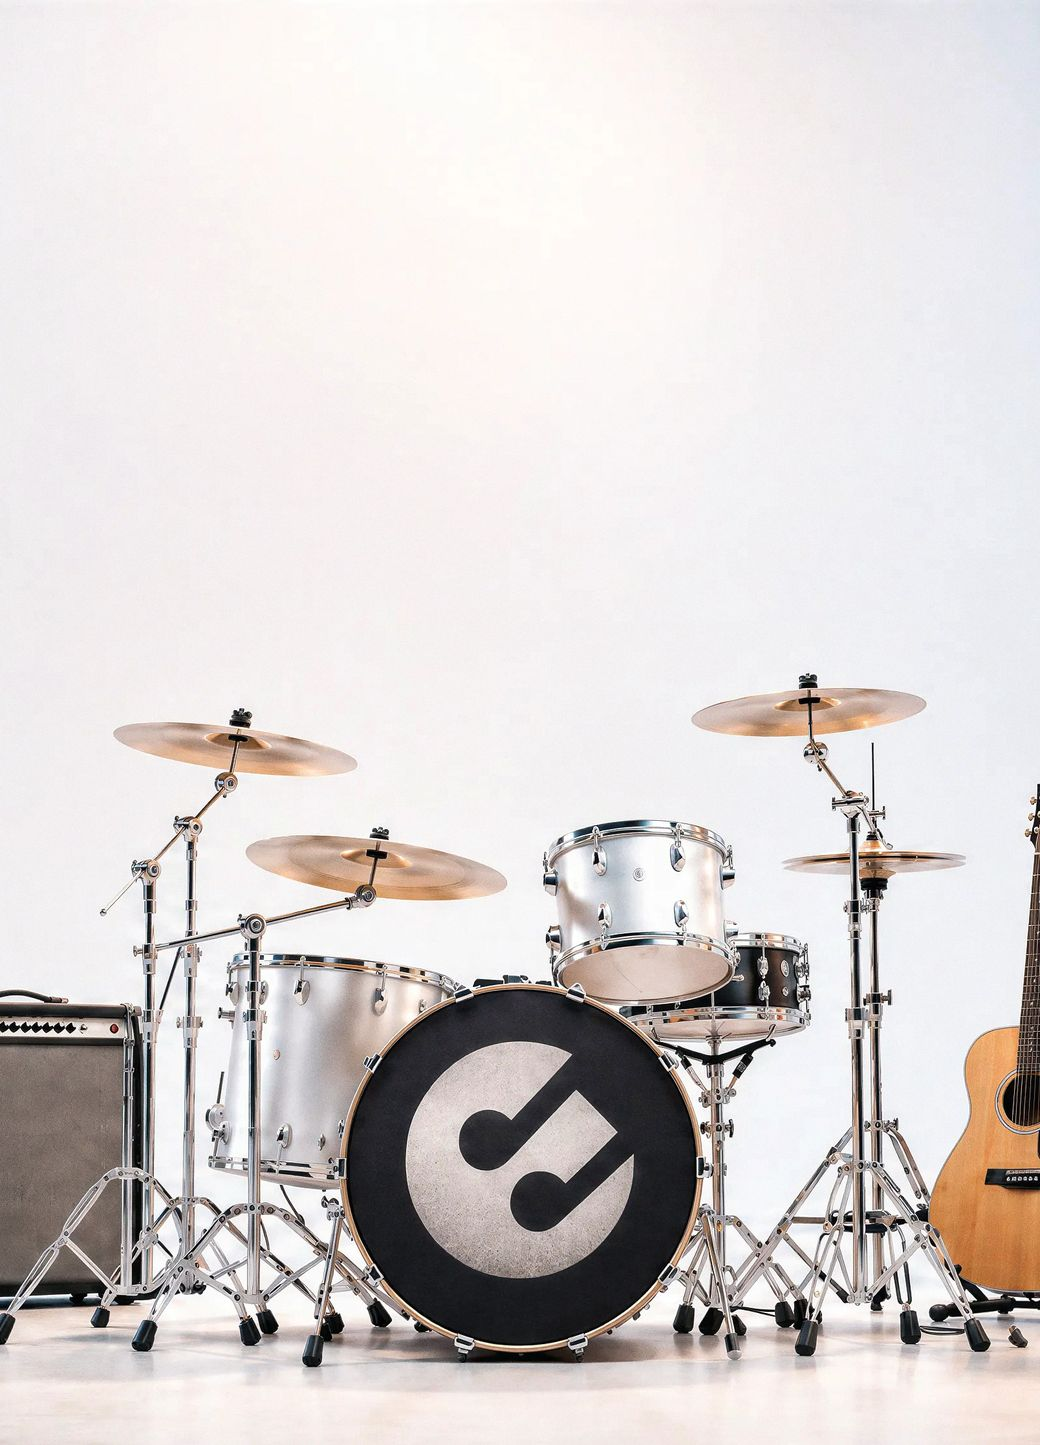
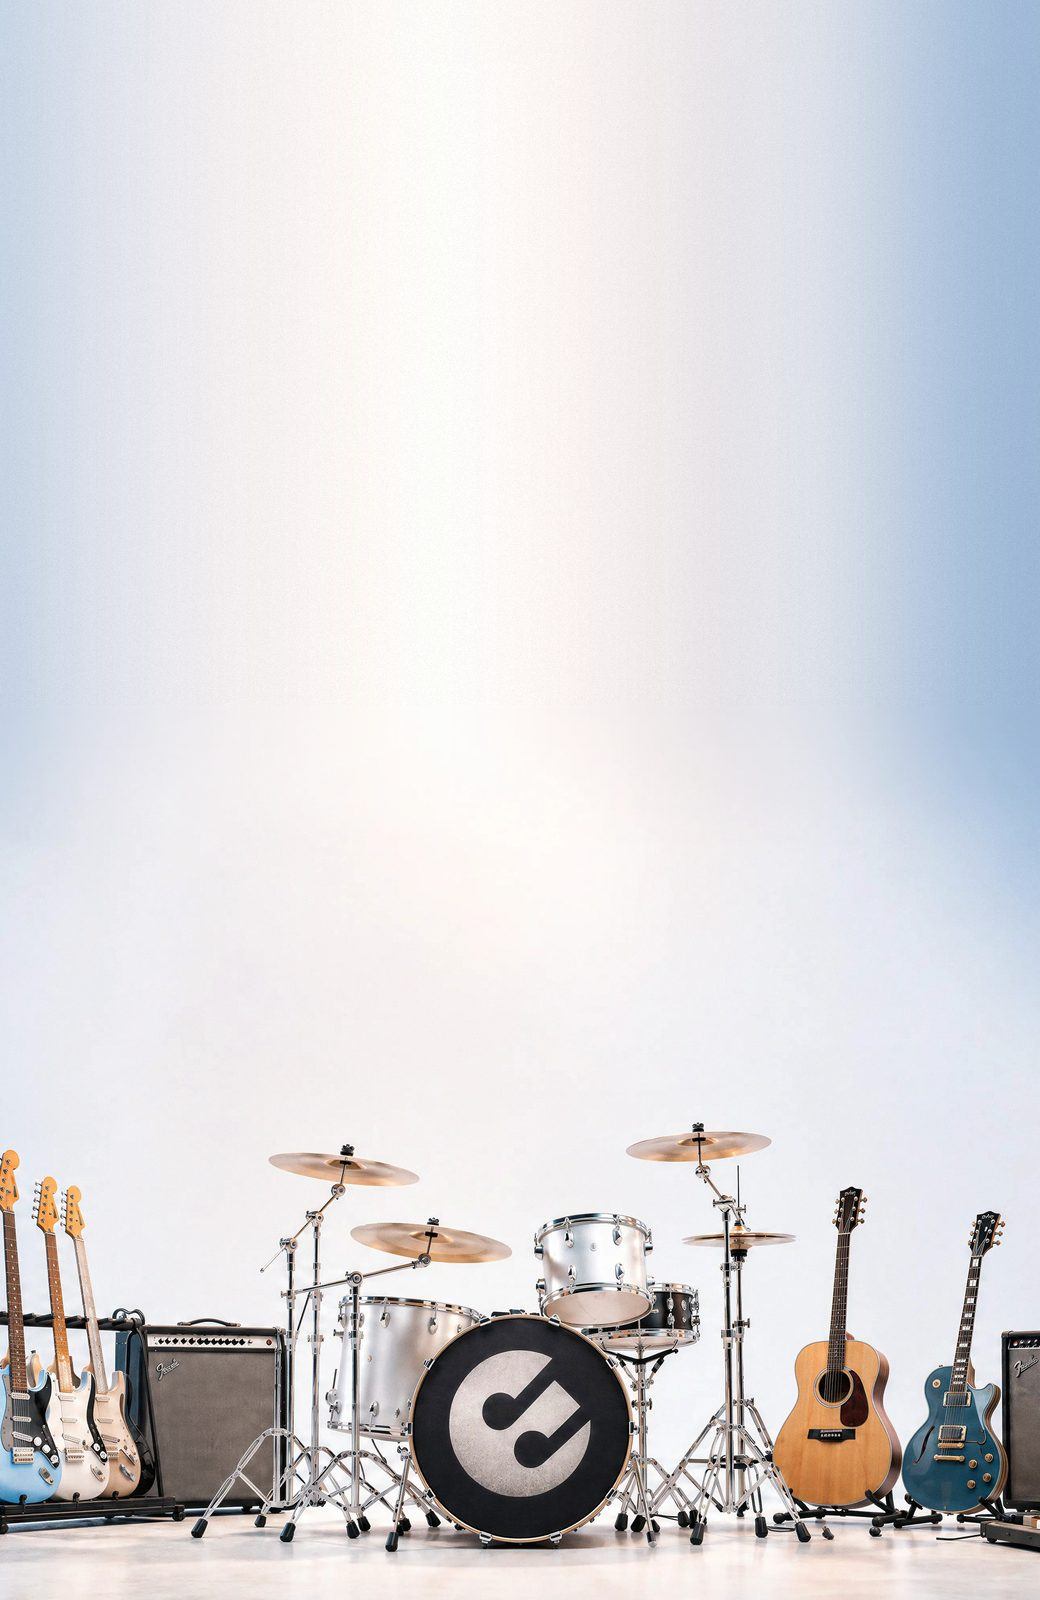
Celular: hero con el fondo extendido y portadas separadas
Solo telefonos; tablet y computadora no cambian.

- Hero: en lugar del recorte con mucho zoom, hero-movil.jpg es ahora la
  foto a escala normal (bateria, guitarras y amplis completos) con el
  fondo celeste y blanco del estudio extendido hacia arriba. Cada columna
  continua el color del borde superior de la foto, se suaviza el
  contraste hacia arriba, lleva un grano leve y la union se funde en
  150px: no hay corte visible. El texto queda sobre el cielo de la propia
  imagen y los instrumentos anclados abajo; en pantallas mas anchas lo
  que se recorta es cielo.
- Corredor: 7 tarjetas por riel en vez de 13, asi quedan separadas y se
  distingue cada portada. Los rieles muestran portadas distintas (pares
  e impares) para que igual aparezcan las 13.
- Cache busting a ?v=20260911-9.

diff --git a/index.html b/index.html
@@ -13,14 +13,14 @@
 <meta property="og:title" content="Idearum — Pistas profesionales para cantantes">
 <meta name="twitter:card" content="summary_large_image">
 
-<link rel="icon" type="image/png" sizes="32x32" href="assets/img/favicon-32.png?v=20260911-8">
-<link rel="icon" type="image/png" sizes="32x32" href="assets/img/favicon-32-dark.png?v=20260911-8" media="(prefers-color-scheme: dark)">
-<link rel="apple-touch-icon" sizes="180x180" href="assets/img/apple-touch-icon.png?v=20260911-8">
+<link rel="icon" type="image/png" sizes="32x32" href="assets/img/favicon-32.png?v=20260911-9">
+<link rel="icon" type="image/png" sizes="32x32" href="assets/img/favicon-32-dark.png?v=20260911-9" media="(prefers-color-scheme: dark)">
+<link rel="apple-touch-icon" sizes="180x180" href="assets/img/apple-touch-icon.png?v=20260911-9">
 <meta property="og:image" content="assets/img/og.jpg">
 <meta property="og:image:width" content="1200">
 <meta property="og:image:height" content="630">
 
-<link rel="stylesheet" href="css/styles.css?v=20260911-8">
+<link rel="stylesheet" href="css/styles.css?v=20260911-9">
 
 <script>
   /* Quita la red de seguridad "sin JS". Si app.js no llega a cargarse en 5
@@ -59,15 +59,15 @@
         (así la web no muestra fichas vacías). Aparece sola con el primero.
         Cambiá también el título, el autor y el tipo de cada tarjeta.
      7. FOTO DEL HERO. Tres archivos en assets/img/: hero-1800.jpg
-        (escritorio), hero-900.jpg (tablet) y hero-movil.jpg (celular, recorte
-        vertical centrado en la batería). Si la cambiás, respetá que el tercio
+        (escritorio), hero-900.jpg (tablet) y hero-movil.jpg (celular: la foto con el
+        fondo del estudio extendido hacia arriba, para el texto). Si la cambiás, respetá que el tercio
         de arriba quede limpio: ahí va el texto. Y cambiá el ?v= en el CSS.
      ========================================================================== -->
 
 <header class="nav">
   <div class="nav__in">
     <a class="nav__logo" href="index.html">
-      <img src="assets/img/logo.png?v=20260911-8" alt="" width="20" height="20">
+      <img src="assets/img/logo.png?v=20260911-9" alt="" width="20" height="20">
       <span>Idearum</span>
     </a>
 
@@ -109,7 +109,7 @@
              href="https://wa.me/5492656442608"
              data-wsp="Hola Idearum, quiero pedir un tema."
              target="_blank" rel="noopener">
-            <img class="wa" src="assets/img/wsp-blanco.png?v=20260911-8" alt="" width="17" height="17">
+            <img class="wa" src="assets/img/wsp-blanco.png?v=20260911-9" alt="" width="17" height="17">
             <span>Pedí tu tema</span>
           </a>
         </div>
@@ -357,14 +357,14 @@
       </div>
     </div>
     <div class="footer__pie">
-      <p class="footer__marca"><img src="assets/img/logo.png?v=20260911-8" alt="" width="16" height="16"><span>Copyright &copy; <span data-anio>2026</span> Idearum. Todos los derechos reservados.</span></p>
+      <p class="footer__marca"><img src="assets/img/logo.png?v=20260911-9" alt="" width="16" height="16"><span>Copyright &copy; <span data-anio>2026</span> Idearum. Todos los derechos reservados.</span></p>
       <p>Producción musical.</p>
     </div>
   </div>
 </footer>
 
-<script src="data/pistas.js?v=20260911-8" defer></script>
-<script src="js/app.js?v=20260911-8" defer></script>
+<script src="data/pistas.js?v=20260911-9" defer></script>
+<script src="js/app.js?v=20260911-9" defer></script>
 
 </body>
 </html>

diff --git a/catalogo.html b/catalogo.html
@@ -13,14 +13,14 @@
 <meta property="og:title" content="Idearum — Pistas profesionales para cantantes">
 <meta name="twitter:card" content="summary_large_image">
 
-<link rel="icon" type="image/png" sizes="32x32" href="assets/img/favicon-32.png?v=20260911-8">
-<link rel="icon" type="image/png" sizes="32x32" href="assets/img/favicon-32-dark.png?v=20260911-8" media="(prefers-color-scheme: dark)">
-<link rel="apple-touch-icon" sizes="180x180" href="assets/img/apple-touch-icon.png?v=20260911-8">
+<link rel="icon" type="image/png" sizes="32x32" href="assets/img/favicon-32.png?v=20260911-9">
+<link rel="icon" type="image/png" sizes="32x32" href="assets/img/favicon-32-dark.png?v=20260911-9" media="(prefers-color-scheme: dark)">
+<link rel="apple-touch-icon" sizes="180x180" href="assets/img/apple-touch-icon.png?v=20260911-9">
 <meta property="og:image" content="assets/img/og.jpg">
 <meta property="og:image:width" content="1200">
 <meta property="og:image:height" content="630">
 
-<link rel="stylesheet" href="css/styles.css?v=20260911-8">
+<link rel="stylesheet" href="css/styles.css?v=20260911-9">
 
 <script>
   document.documentElement.classList.remove("no-js");
@@ -50,7 +50,7 @@
 <header class="nav">
   <div class="nav__in">
     <a class="nav__logo" href="index.html">
-      <img src="assets/img/logo.png?v=20260911-8" alt="" width="20" height="20">
+      <img src="assets/img/logo.png?v=20260911-9" alt="" width="20" height="20">
       <span>Idearum</span>
     </a>
 
@@ -259,15 +259,15 @@
       </div>
     </div>
     <div class="footer__pie">
-      <p class="footer__marca"><img src="assets/img/logo.png?v=20260911-8" alt="" width="16" height="16"><span>Copyright &copy; <span data-anio>2026</span> Idearum. Todos los derechos reservados.</span></p>
+      <p class="footer__marca"><img src="assets/img/logo.png?v=20260911-9" alt="" width="16" height="16"><span>Copyright &copy; <span data-anio>2026</span> Idearum. Todos los derechos reservados.</span></p>
       <p>Producción musical.</p>
     </div>
   </div>
 </footer>
 
-<script src="data/pistas.js?v=20260911-8" defer></script>
-<script src="js/app.js?v=20260911-8" defer></script>
-<script src="js/catalogo.js?v=20260911-8" defer></script>
+<script src="data/pistas.js?v=20260911-9" defer></script>
+<script src="js/app.js?v=20260911-9" defer></script>
+<script src="js/catalogo.js?v=20260911-9" defer></script>
 
 </body>
 </html>

diff --git a/js/app.js b/js/app.js
@@ -299,6 +299,10 @@
   VIA_MOVIL.fan = 2.0;
 
   var TARJETAS = 13;    // tarjetas por riel a la vez (una por portada)
+  // Celular: menos tarjetas por riel para que queden separadas y cada tapa se
+  // vea entera (con 13 se superponian tanto que no se distinguia ninguna).
+  // Los dos rieles muestran portadas distintas, asi igual aparecen las 13.
+  var TARJETAS_MOVIL = 7;
   var VELOCIDAD = 18;   // segundos que tarda una tarjeta en cruzar el corredor
   var EJE = 55;         // altura del eje del corredor, en % del alto
 
@@ -331,7 +335,9 @@
     if (!window.CSS || !CSS.supports || !CSS.supports("container-type", "inline-size")) return;
     if (!PORTADAS.length) return;
 
-    var via = caja.clientWidth < 700 ? VIA_MOVIL : VIA;
+    var movil = caja.clientWidth < 700;
+    var via = movil ? VIA_MOVIL : VIA;
+    var n = movil ? TARJETAS_MOVIL : TARJETAS;
     var hoja = document.createElement("style");
     hoja.textContent = keyframes(1, "corr-der", via) + keyframes(-1, "corr-izq", via);
     document.head.appendChild(hoja);
@@ -340,7 +346,7 @@
     var rieles = ["corr-der", "corr-izq"];
 
     for (var r = 0; r < rieles.length; r++) {
-      for (var i = 0; i < TARJETAS; i++) {
+      for (var i = 0; i < n; i++) {
         var card = document.createElement("div");
         card.className = "corredor__card";
         card.style.left = "50%";
@@ -353,10 +359,13 @@
         card.style.animation = rieles[r] + " " + VELOCIDAD + "s linear infinite";
         // El retardo negativo suelta cada tarjeta a mitad de vuelo, asi el
         // corredor ya esta lleno en el primer cuadro.
-        card.style.animationDelay = (-(i * VELOCIDAD) / TARJETAS) + "s";
+        card.style.animationDelay = (-(i * VELOCIDAD) / n) + "s";
 
         var img = document.createElement("img");
-        img.src = PORTADAS[i % PORTADAS.length] + "?v=" + V_PORTADAS;
+        // Escritorio: los dos rieles en espejo. Celular: pares a la derecha,
+        // impares a la izquierda, para que entren las 13 con 7 por lado.
+        var cual = movil ? (i * 2 + r) % PORTADAS.length : i % PORTADAS.length;
+        img.src = PORTADAS[cual] + "?v=" + V_PORTADAS;
         img.alt = "";
         // Sin lazy y con prioridad normal: el corredor ya asoma en la primera
         // pantalla del celular y las portadas pesan poco. Con prioridad baja

diff --git a/css/styles.css b/css/styles.css
@@ -1042,10 +1042,12 @@ ul { list-style: none; padding: 0; }
    -------------------------------------------------------------------------- */
 
 @media (max-width: 600px) {
-  /* Hero: el texto va ENCIMA de la foto, como en escritorio. La foto usa un
-     recorte vertical propio (hero-movil.jpg), centrado en la bateria: asi el
-     tercio de arriba queda limpio para el texto. La etiqueta "Produccion
-     musical" se saca y los dos botones van en una sola linea. */
+  /* Hero: el texto va ENCIMA de la foto, como en escritorio. hero-movil.jpg
+     es la foto a escala normal (bateria, guitarras y amplis completos) con el
+     fondo celeste y blanco del estudio EXTENDIDO hacia arriba, fundido sin
+     corte: el texto queda sobre el cielo de la propia imagen. Se anclan abajo
+     los instrumentos; si la pantalla es mas ancha, lo que se recorta es cielo.
+     La etiqueta "Produccion musical" se saca y los botones van en una linea. */
   .hero__txt {
     position: absolute;
     z-index: 2;
@@ -1057,7 +1059,7 @@ ul { list-style: none; padding: 0; }
   .hero__foto {
     aspect-ratio: auto;
     height: max(600px, 138vw);
-    background-image: url("../assets/img/hero-movil.jpg?v=20260911-6");
+    background-image: url("../assets/img/hero-movil.jpg?v=20260911-9");
     background-position: 50% 100%;
     background-size: cover;
   }

diff --git a/README.md b/README.md
@@ -133,8 +133,9 @@ o `Folklore tradicional` y los reconoce igual.
 ## Imágenes
 
 - **Hero**: `assets/img/hero-1800.jpg` (escritorio), `hero-900.jpg` (tablet)
-  y `hero-movil.jpg` (celular: recorte vertical centrado en la batería, para
-  que el texto vaya encima de la foto también en el teléfono). Están
+  y `hero-movil.jpg` (celular: la foto a escala normal con el fondo celeste y
+  blanco del estudio extendido hacia arriba, fundido sin corte, para que el
+  texto vaya encima de la foto también en el teléfono). Están
   recortadas para que el bombo con el logo caiga en el eje exacto de la
   página. Si se cambia la foto, los dos tercios de arriba tienen que quedar
   limpios: ahí va el texto.
